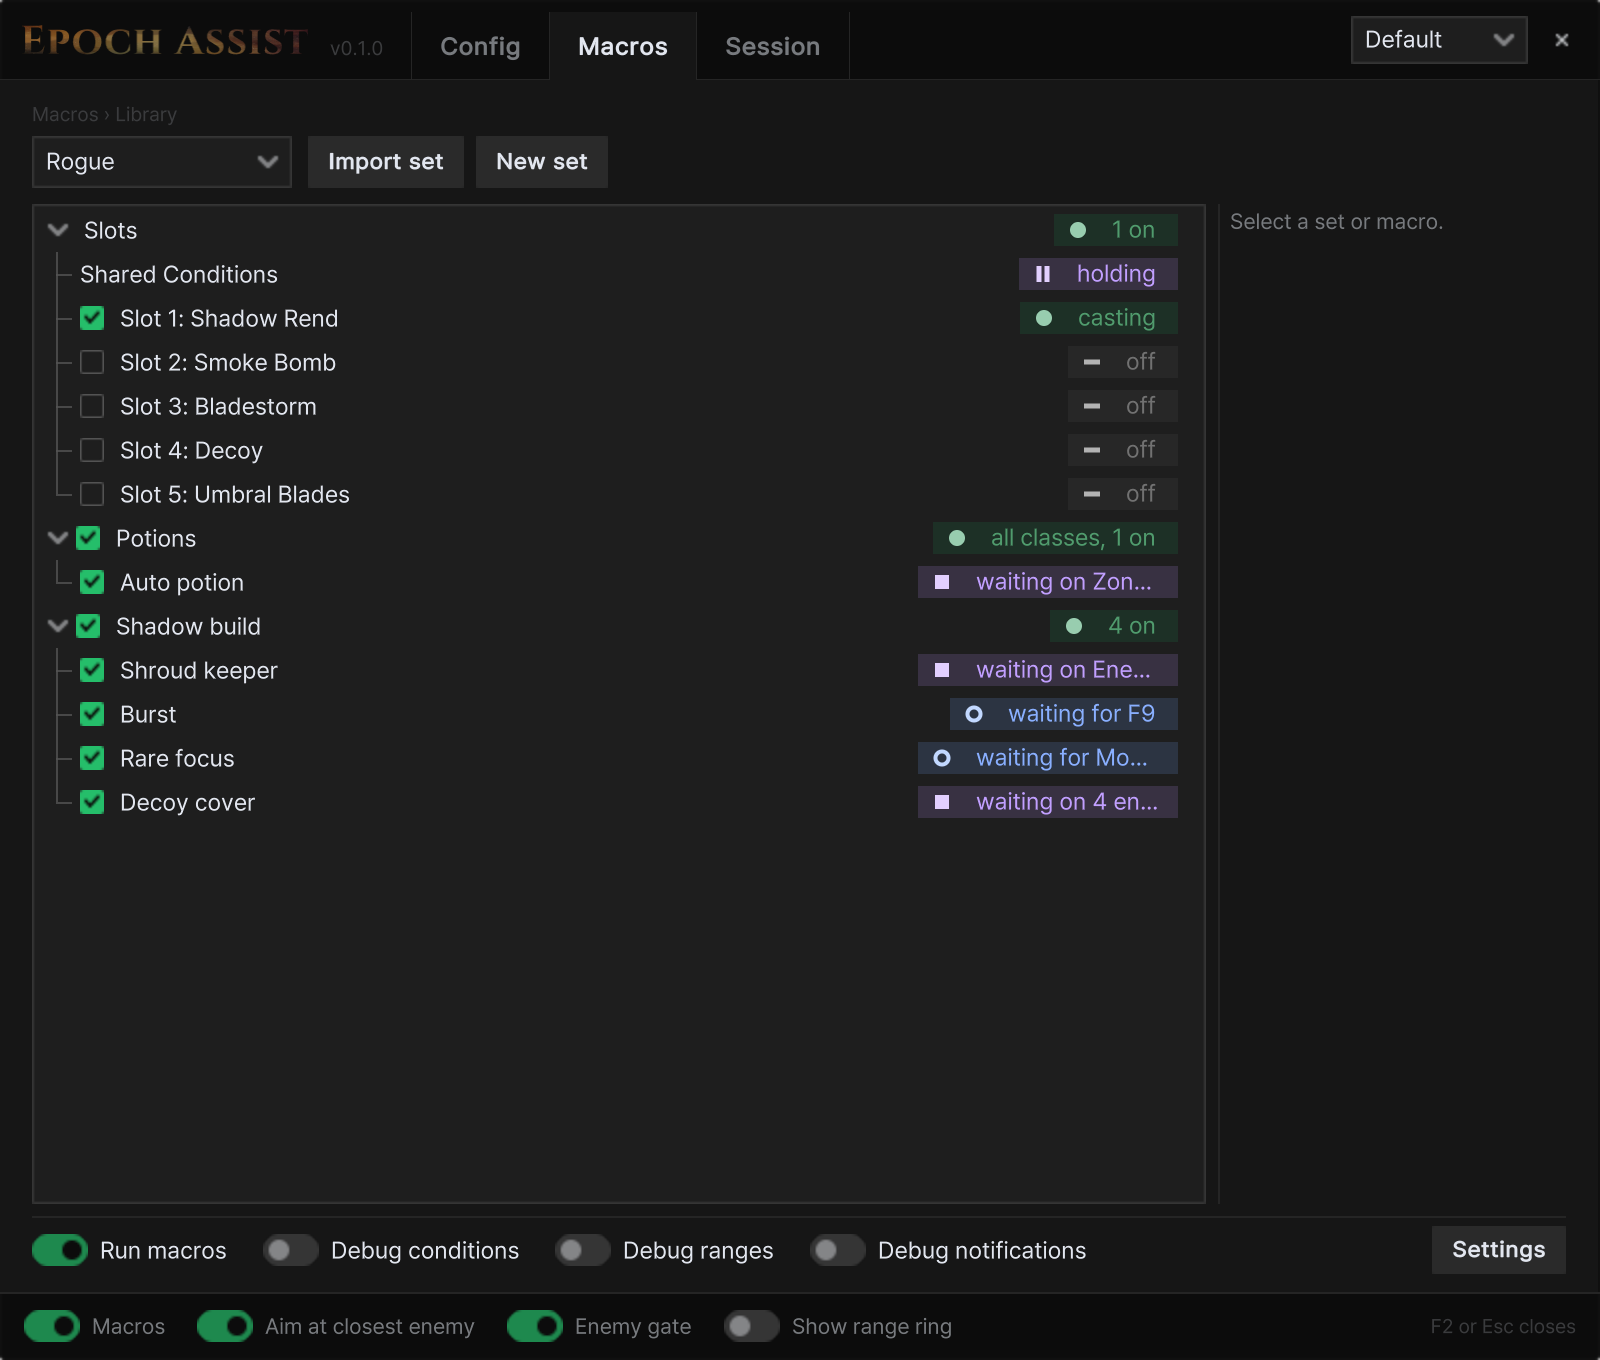
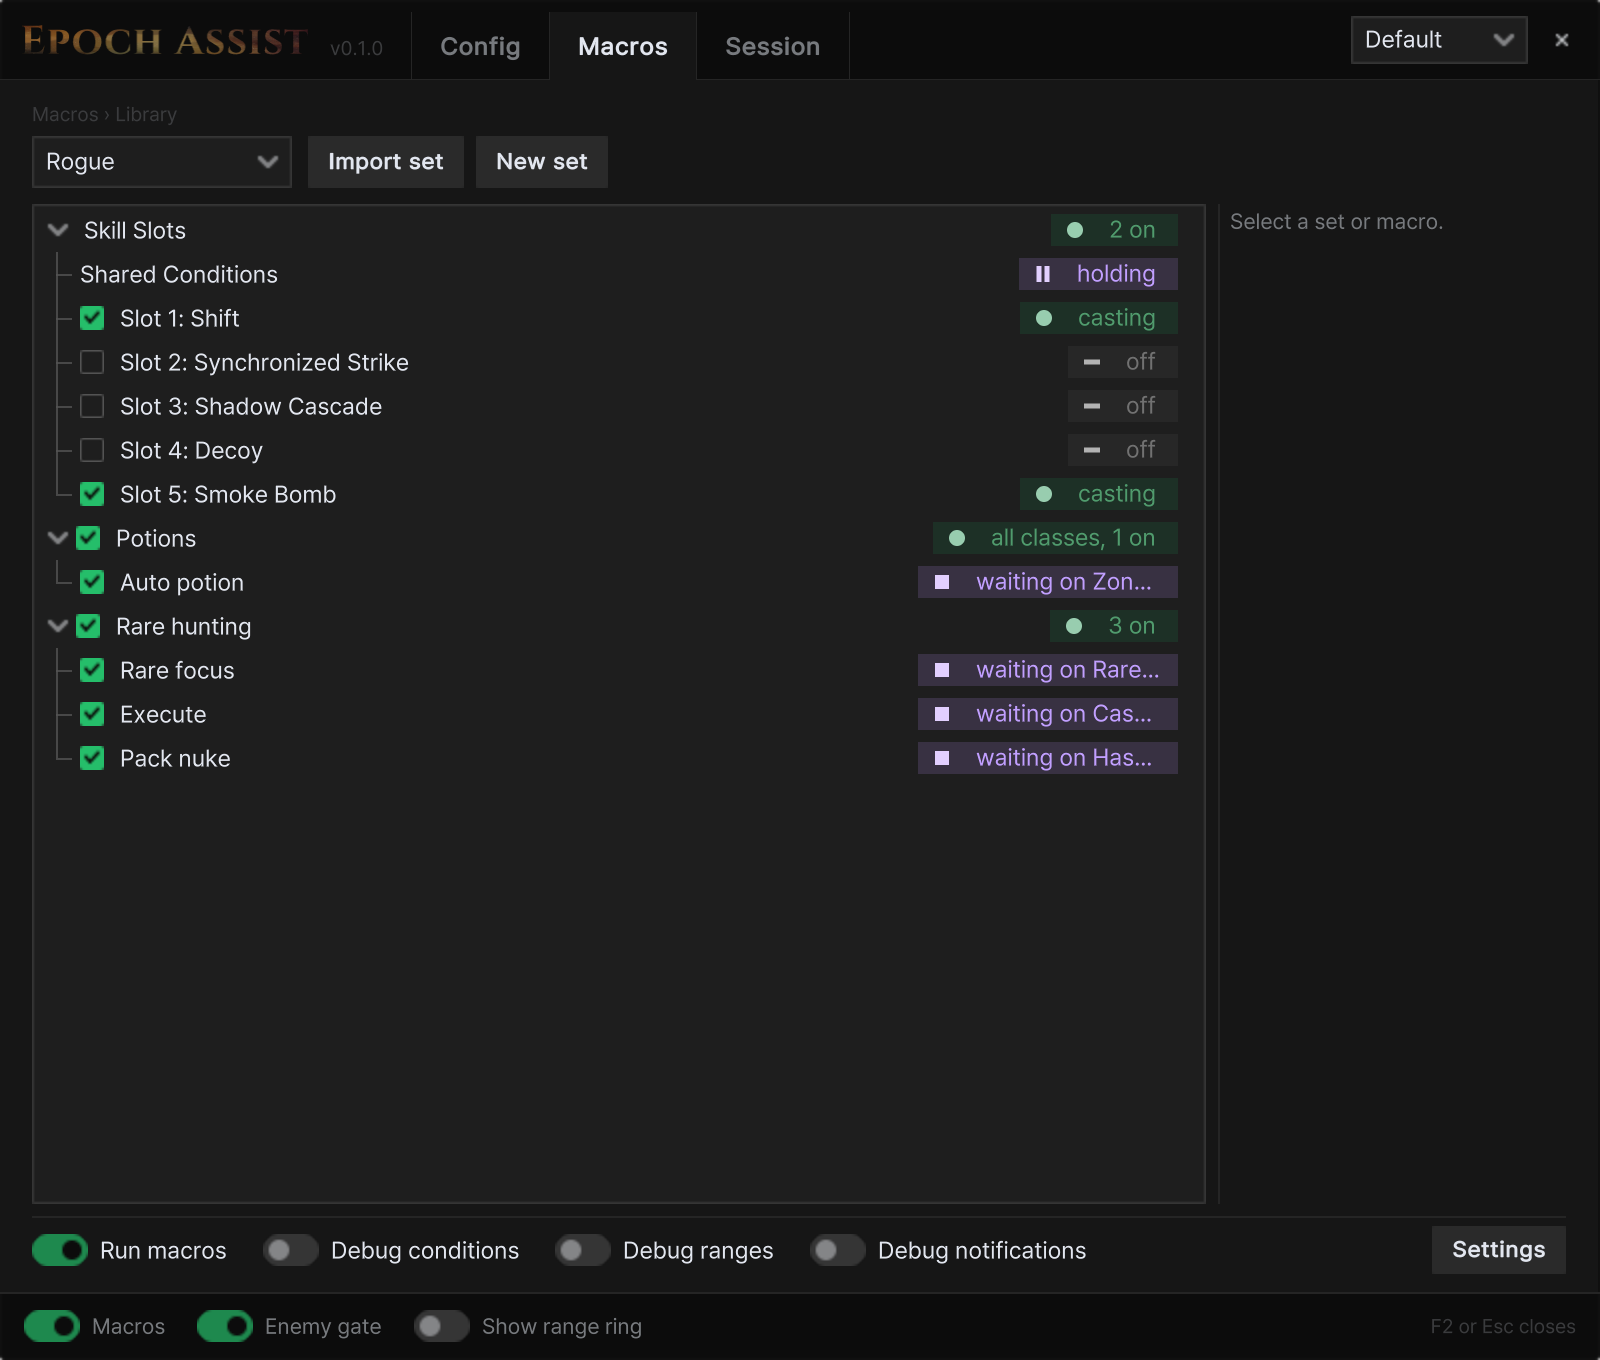
docs(nexus): screenshots show Skill Slots and the current HUD bar

diff --git a/nexus/media/README.md b/nexus/media/README.md
@@ -26,7 +26,7 @@ is drawn (`tools/shot.sh …`; shots land in `UserData/EpochAssist/dev/shots/`):
 | `logo` | The nebula wordmark, the page's title (not a screenshot) | a copy of `src/Ui/Theme/Assets/logo-wordmark@4x.png` |
 | `macros` | Macros › Library with Slots, Potions and a filled-out example set (made for the shot, removed after; slots 1 and 5 ticked) | `menu open macros/library/library`, `wait 90`, `shot menu macros matte` |
 | `macro-editor` | One macro's editor with an all-of tree, a nested any-of group and live values, and its cast step open on its Target rows with a live pick (near a pack; scrolled to the bottom, then one notch up) | `macro edit <set>/<macro>`, `wait 90`, `shot menu macro-editor matte` |
-| `shared-target` | Macros › Library › Slots › Shared Conditions: the enemy gate and the Shared target, set for the shot to the rarest enemy within 15 m, magic or better (near a pack so its live pick shows; put back after) | `set SlotTargets {"v":1,"shared":{"pick":"rarest","range":15,"minRarity":"magic","else":"cursor"}}`, `macro edit slots/every`, `wait 40`, `shot menu shared-target matte`, `set SlotTargets {"v":1}` |
+| `shared-target` | Macros › Library › Slots › Shared Conditions: the enemy gate and the Shared target, set for the shot to the rarest enemy within 15 m (near a pack so its live pick shows; put back after) | `set SlotTargets {"v":1,"shared":{"pick":"rarest","range":15,"else":"cursor"}}`, `macro edit slots/every`, `wait 40`, `shot menu shared-target matte`, `set SlotTargets {"v":1}` |
 | `hud` | The mini HUD with its quick toggles open (slots 1 and 3 ticked for the shot) | `run macros.slot.1`, `run macros.slot.3`, `hud panel open`, `wait 30`, `shot hud hud matte`, `hud panel close`, the two slots off again |
 | `profiles` | Config › General › Profiles | `menu open combat/general/profiles`, `wait 90`, `shot menu profiles matte` |
 | `appearance` | Config › General › Interface › Appearance | `menu open combat/general/interface/appearance`, `wait 90`, `shot menu appearance matte` |
